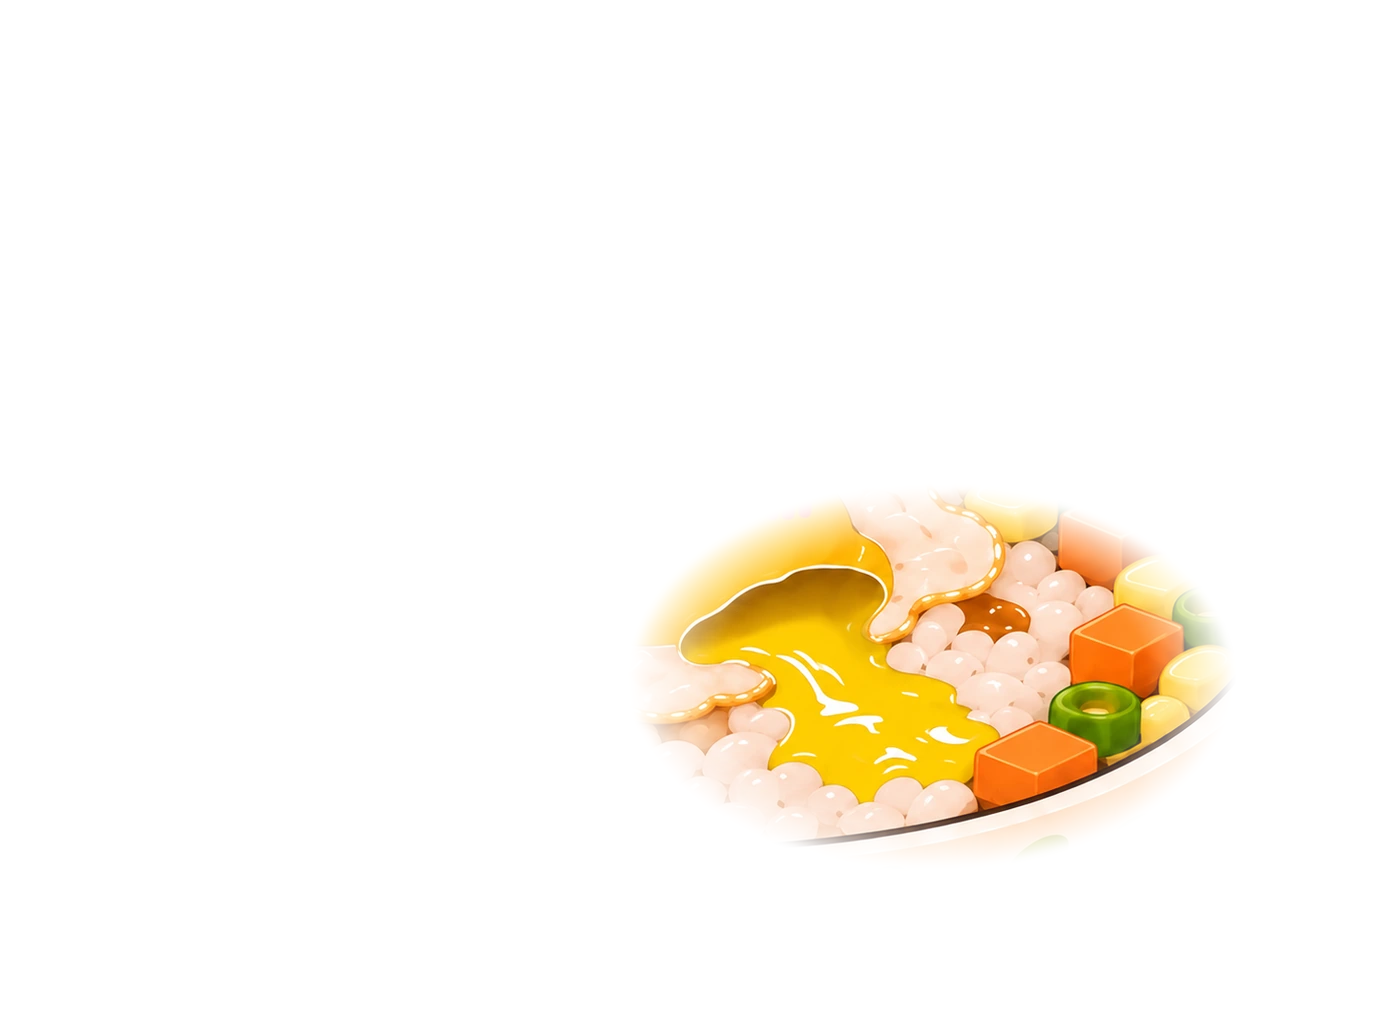
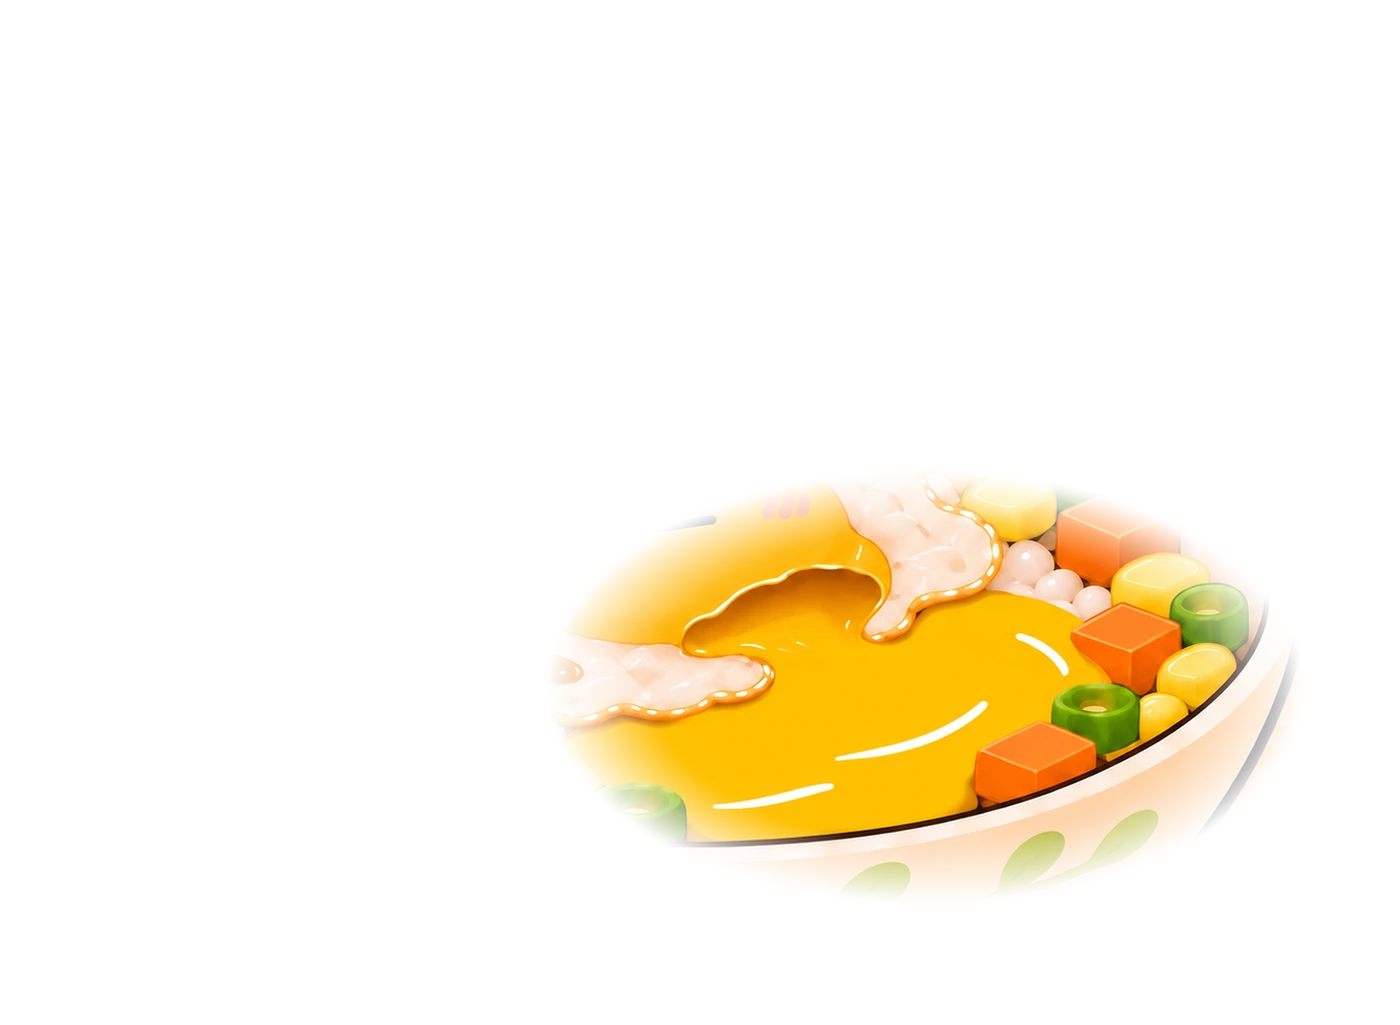
p6e: rebuilt from the smooth frames 04-06: starts already well spilled (continuity with p6d), then more, then a puddle; frames 1-3 dropped

Changed region(s): [[0.3993, 0.4683, 0.9214, 0.8741]]

diff --git a/src/app/preview/visual/PanelPerf.tsx b/src/app/preview/visual/PanelPerf.tsx
@@ -375,10 +375,9 @@ export function SaucePanel(props: { p: PanelSlot; pos: Place; dy: number; q: num
 
 /**
  * 结尾回答格 p6e "没事，是我拉肚子了。"（只在 punchline 段出现）。2026-11-15 用 ChatGPT 的三张新帧做"蛋黄流动"（tools/prepare_p6e_flow.py，public/assets/comic-v5/p6e/）：
- *   base = 第 1 帧叠上第 2 帧"蛋黄流出处"的一块羽化椭圆（已配准到第 1 帧）：起点就是中等流量，接得上上一格 p6d（蛋黄已经流出来不少），泡里是空的；
- *   patch3 = 第 3 帧里同一块椭圆（流得最远），其余画面永远是第 1 帧。
+ *   base = 04 帧（起点就是"已经流出来不少"，接得上上一格 p6d，泡里是空的）；patch2 / patch3 = 05（更多）/ 06（流成一滩）帧里"蛋黄流出处"的一块羽化椭圆（已配准到 04），其余画面永远是 04。
  *   为什么不整张交叉淡入：三张是各自重新生成的，碗沿、米粒的线条有细小差异，整张淡入会出现重影；只换流出处的一块，别处纹丝不动。
- *   蛋、蛋脸、碗都不动，只有蛋黄在流：从中等流量继续往外淌到最远（patch3 淡入 1.4 s），停在最远，不倒回去（用户 2026-11-15：上一格已经流出来不少，只能"更多"，不能先缩回去）。
+ *   蛋、蛋脸、碗都不动，只有蛋黄在流：从已经流出来不少，淌到更多（patch2 淡入 1.0 s），再淌成一滩（patch3 淡入 1.2 s），停在最远，不倒回去（用户 2026-11-15：上一格已经流出来不少，只能"更多"，不能先缩回去）。
  * 对白：停顿 → 气泡以外的画面轻微降饱和、降对比（作用于底图和补丁）；泡本身用泡形遮罩（bubble.webp，alpha）叠一份不加滤镜的底图，保持奶油白；
  * 对白字层（text.webp，旧字层按新泡外框缩放）整句约半秒内从浅墨渐浓。进入稳定前泡里是空的。
  * 离场落到终态（降饱和 + 文字全显 + 蛋黄流到最远），复位回到原样。减少动态效果 / ?perf=0：直接显示终态静图（static.webp）。不加发光、投影、抖动。
@@ -390,16 +389,17 @@ export function DialoguePanel({ p, pos, dy, q, stage, animate }: { p: PanelSlot;
   const art = useRef<HTMLDivElement>(null);
   const els = useRef<Record<string, HTMLImageElement | null>>({});
   const tl = useRef<gsap.core.Timeline | null>(null);
-  const look = useRef({ dim: 0, ink: 0, show: 0, f3: 0 });
+  const look = useRef({ dim: 0, ink: 0, show: 0, f2: 0, f3: 0 });
   const apply = () => {
-    const { dim, ink, show, f3 } = look.current;
+    const { dim, ink, show, f2, f3 } = look.current;
     if (art.current) art.current.style.filter = `saturate(${1 - (1 - DIM.saturate) * dim}) contrast(${1 - (1 - DIM.contrast) * dim}) brightness(${1 + (DIM.brightness - 1) * dim})`;
     if (els.current.text) els.current.text.style.opacity = String(show * (0.22 + 0.78 * ink));
+    if (els.current.patch2) els.current.patch2.style.opacity = String(f2);
     if (els.current.patch3) els.current.patch3.style.opacity = String(f3);
   };
-  const setLook = (v: { dim: number; ink: number; show: number; f3: number }) => { look.current = { ...v }; apply(); };
-  const reset = () => { tl.current?.kill(); tl.current = null; setLook({ dim: 0, ink: 0, show: 0, f3: 0 }); };
-  const stop = () => { if (!tl.current) return; tl.current.kill(); tl.current = null; setLook({ dim: 1, ink: 1, show: 1, f3: 1 }); };
+  const setLook = (v: { dim: number; ink: number; show: number; f2: number; f3: number }) => { look.current = { ...v }; apply(); };
+  const reset = () => { tl.current?.kill(); tl.current = null; setLook({ dim: 0, ink: 0, show: 0, f2: 0, f3: 0 }); };
+  const stop = () => { if (!tl.current) return; tl.current.kill(); tl.current = null; setLook({ dim: 1, ink: 1, show: 1, f2: 1, f3: 1 }); };
   const play = () => {
     reset();
     const st = look.current;
@@ -407,7 +407,8 @@ export function DialoguePanel({ p, pos, dy, q, stage, animate }: { p: PanelSlot;
     t.to(st, { dim: 1, duration: 0.6, ease: "power1.inOut" }, 0); // 泡以外轻微降饱和、降对比
     t.to(st, { show: 1, duration: 0.12, ease: "none" }, 0.3); // 对白出现（浅墨）
     t.to(st, { ink: 1, duration: 0.5, ease: "power1.out" }, 0.3); // 从浅墨渐浓
-    t.to(st, { f3: 1, duration: 1.4, ease: "sine.inOut" }, 1.3); // 蛋黄接着往外淌，淌到最远，停住
+    t.to(st, { f2: 1, duration: 1.0, ease: "sine.inOut" }, 1.2); // 蛋黄接着往外淌
+    t.to(st, { f3: 1, duration: 1.2, ease: "sine.inOut" }, 2.4); // 淌成一滩，停住
     tl.current = t;
     debugTl("p6e", t);
   };
@@ -420,9 +421,10 @@ export function DialoguePanel({ p, pos, dy, q, stage, animate }: { p: PanelSlot;
   );
   return (
     <div className="panel-frame absolute overflow-hidden will-change-transform" style={{ ...boxStyle(pos, p.aspect, dy) }}>
-      {/* 会被降饱和的部分：底图（中等流量）+ 蛋黄流出处的一块补丁（流到最远） */}
+      {/* 会被降饱和的部分：底图（04 帧）+ 蛋黄流出处的两块补丁 */}
       <div ref={art} className="absolute inset-0">
         {layer("base", 1)}
+        {layer("patch2", 0)}
         {layer("patch3", 0)}
       </div>
       {/* 泡本身：同一张底图、不加滤镜，只露出泡形遮罩里的部分 */}

diff --git a/tools/prepare_p6e_flow.py b/tools/prepare_p6e_flow.py
@@ -1,11 +1,10 @@
-"""p6e（结尾饭碗格）蛋黄流动：三张完整的新帧 → public/assets/comic-v5/p6e/。
-用法：python3 -I tools/prepare_p6e_flow.py <p6e-full-frames 目录>（p6e-frame-01/02/03.png，泡里没有字）
-三张都是重新生成的整格：碗、米饭、配菜的边线有细小差异，第 3 帧还缩放 / 微旋转了，整张交叉淡入会出现碗沿、米粒的重影。
-所以：SIFT + RANSAC 把第 2、3 帧仿射配准到第 1 帧；只取"蛋黄流出处"的一块椭圆（羽化边缘）叠在第 1 帧上，其余永远是第 1 帧。
-2026-11-15 用户指出：上一格 p6d 里蛋黄已经流出来不少，这一格不能先缩回一点再淌。所以第 1 帧（刚破口）不再出现：
-起点 = 第 1 帧 + 第 2 帧补丁（中等流量，接得上 p6d），只往"更多"走（第 3 帧补丁淡入）。
-输出（1400 宽）：base = 第 1 帧叠上第 2 帧补丁（起点）；patch3 = 第 3 帧的椭圆补丁（RGBA，终点）；bubble = 泡形遮罩（alpha，奶油色连通域膨胀到包住描边）；
-text = 旧对白字层（comic-v3/p6e-text-c.webp）按新旧泡的外框对应缩放平移；static = 第 3 帧补丁 + 对白（终态，减少动态效果用）。
+"""p6e（结尾饭碗格）蛋黄流动：p6e-smooth-frames 的三张新帧 → public/assets/comic-v5/p6e/。
+用法：python3 -I tools/prepare_p6e_flow.py <p6e-smooth-frames 目录>（p6e-frame-04/05/06.png，泡里没有字）
+2026-11-15 用户指出：上一格 p6d 里蛋黄已经流出来不少，这一格不能先缩回去再淌。所以起点 = 第 04 帧（已经流出来不少），05（更多）、06（流成一滩）只往"更多"走。
+三张是各自重新生成的整格，碗沿、米粒的线条有细小差异，整张交叉淡入会重影；
+所以：SIFT + RANSAC 把 05、06 仿射配准到 04；只取"蛋黄流出处"的一块椭圆（羽化边缘）叠在 04 上，其余画面永远是 04。
+输出（1400 宽）：base = 04；patch2 / patch3 = 05 / 06 的椭圆补丁（RGBA）；bubble = 泡形遮罩（alpha，奶油色连通域膨胀到包住描边）；
+text = 旧对白字层（comic-v3/p6e-text-c.webp）按新旧泡的外框对应缩放平移；static = 06 补丁 + 对白（终态，减少动态效果用）。
 """
 import sys
 import cv2
@@ -15,7 +14,7 @@ from scipy import ndimage as ndi
 
 src = sys.argv[1]
 OUT = "public/assets/comic-v5/p6e"
-fr = [cv2.imread(f"{src}/p6e-frame-0{i}.png") for i in (1, 2, 3)]
+fr = [cv2.imread(f"{src}/p6e-frame-0{i}.png") for i in (4, 5, 6)]
 ref = fr[0]
 H, W = ref.shape[:2]
 sift = cv2.SIFT_create(4000)
@@ -36,7 +35,7 @@ def pil(a):
 base, p2, p3 = (pil(a) for a in reg)
 
 # 蛋黄流出处的椭圆（归一化坐标，按第 3 帧里蛋黄流到的最远位置留余量）
-cxn, cyn, rx, ry = 0.665, 0.66, 0.215, 0.185
+cxn, cyn, rx, ry = 0.66, 0.67, 0.27, 0.21
 yy, xx = np.mgrid[0:OH, 0:OW]
 d = np.sqrt(((xx / OW - cxn) / rx) ** 2 + ((yy / OH - cyn) / ry) ** 2)
 alpha = np.clip((1.0 - d) / 0.28, 0, 1)  # 外 28% 羽化
@@ -74,11 +73,11 @@ resized = old_text.resize((round(old_text.size[0] * sx), round(old_text.size[1] 
 tw.alpha_composite(resized, (round(nx0 - ox0 * sx), round(ny0 - oy0 * sy)))
 print("text scale", round(sx, 3), round(sy, 3))
 
-start = base.copy(); start.alpha_composite(P2)  # 起点：中等流量
-st = start.copy(); st.alpha_composite(P3); st.alpha_composite(tw)
+st = base.copy(); st.alpha_composite(P3); st.alpha_composite(tw)
 import os
 os.makedirs(OUT, exist_ok=True)
-start.convert("RGB").save(f"{OUT}/base.webp", quality=92, method=6)
+base.convert("RGB").save(f"{OUT}/base.webp", quality=92, method=6)
+P2.save(f"{OUT}/patch2.webp", quality=92, method=6)
 P3.save(f"{OUT}/patch3.webp", quality=92, method=6)
 mask.save(f"{OUT}/bubble.webp", quality=95, method=6)
 tw.save(f"{OUT}/text.webp", quality=95, method=6)
